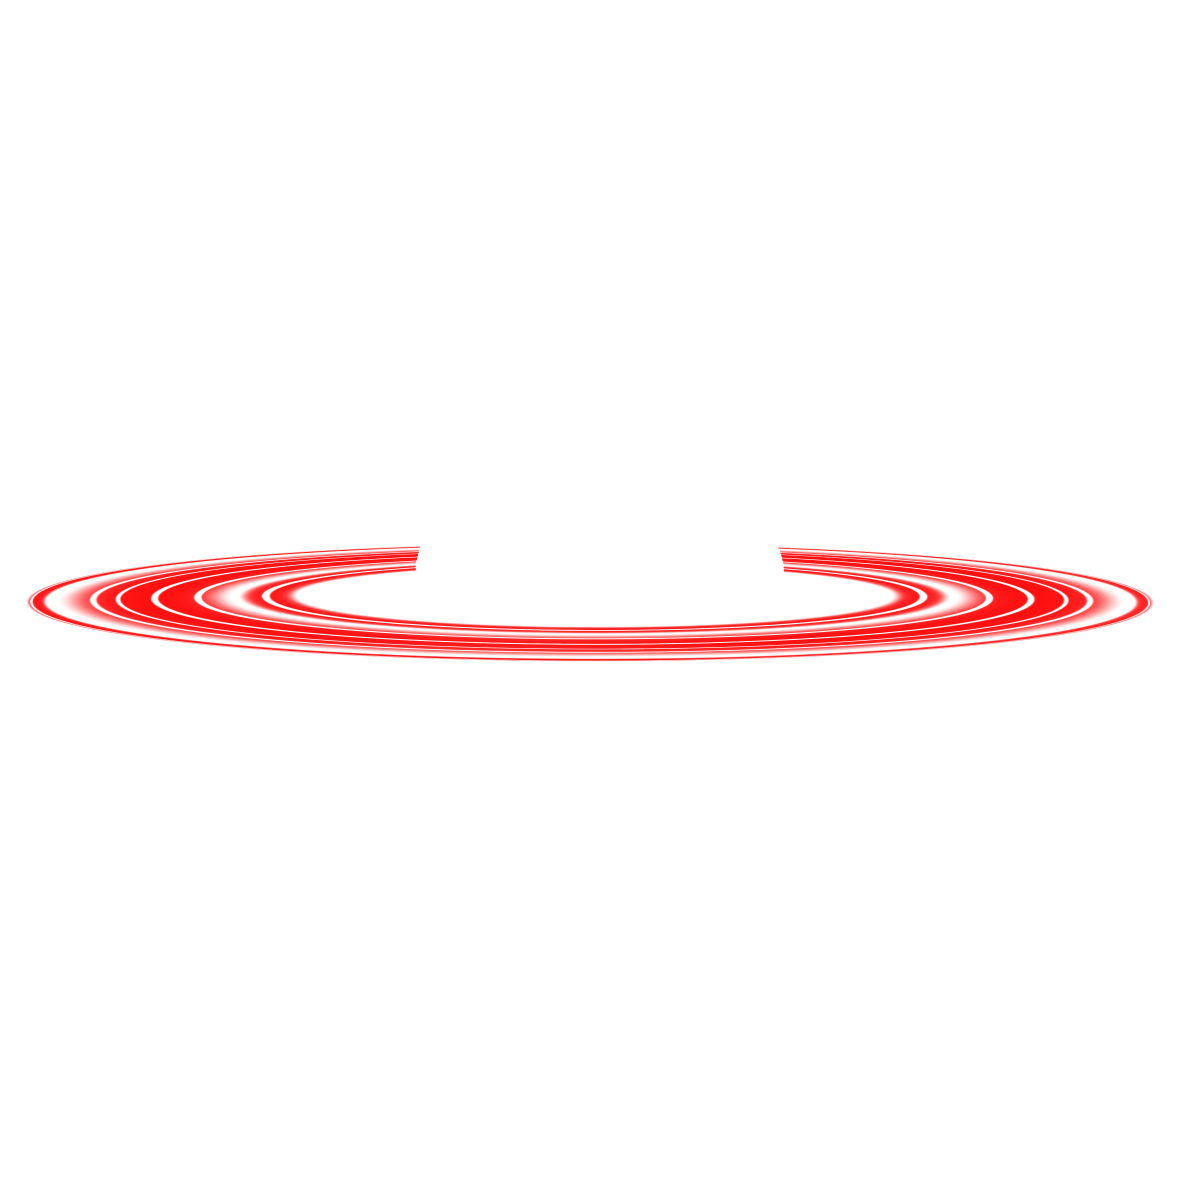
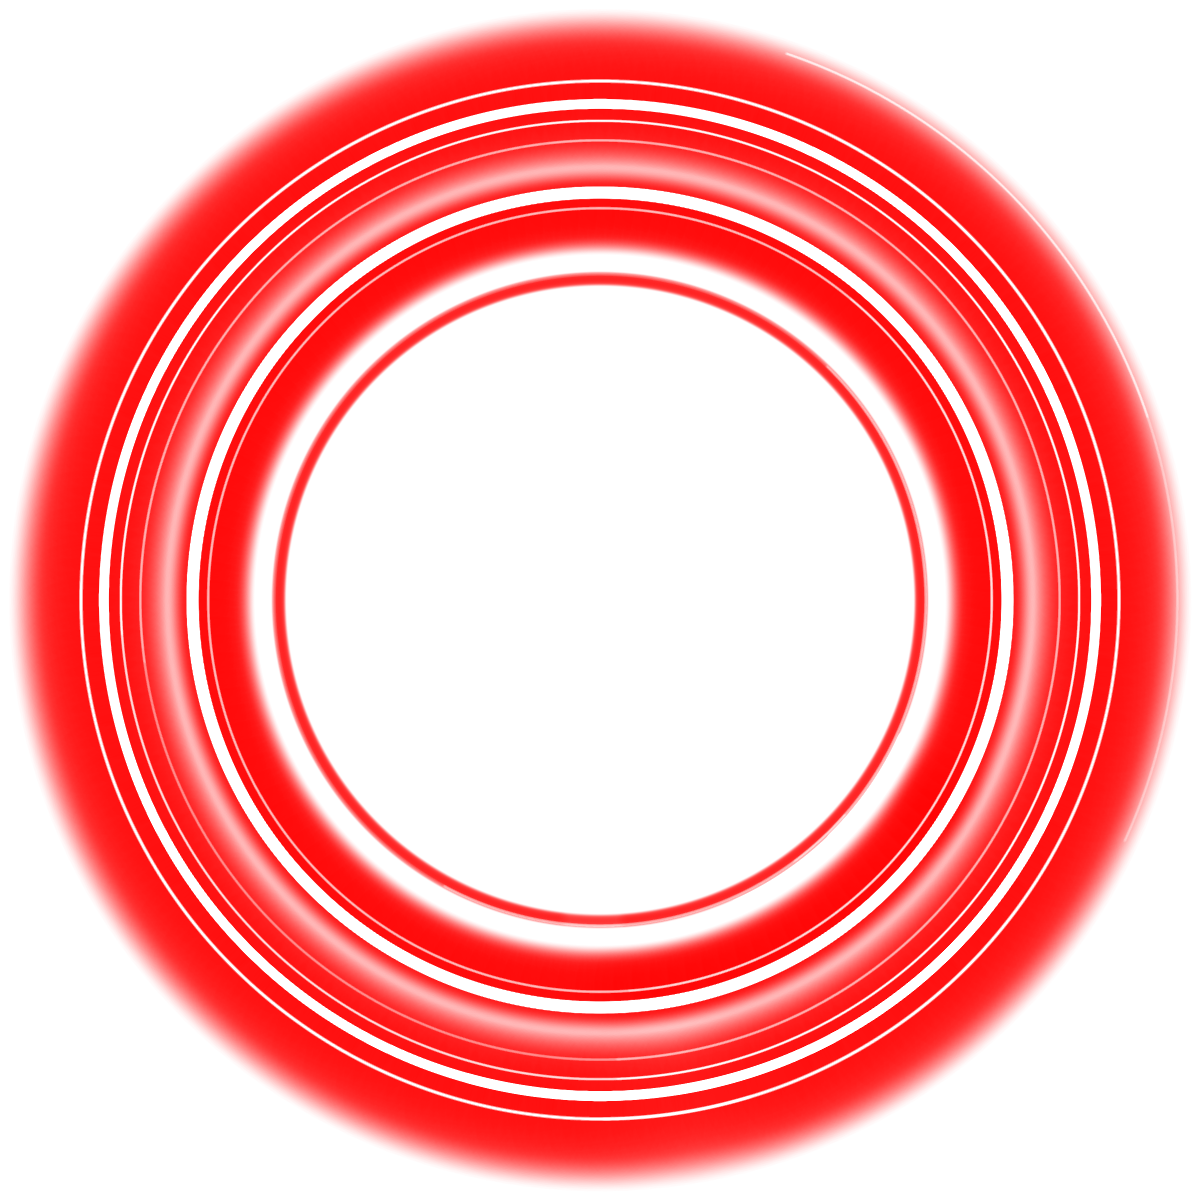
3D ring
Replace image of ring and rewrite the display of ring so that ring becomes 3D ring.

diff --git a/generator.js b/generator.js
@@ -21,12 +21,12 @@ function generate(planetData) {
     ["--planetDetailRotate", planetData.detail.rotate],
     ["--planetRingOpacity", planetData.ring.opacity],
     ["--planetRingRotate", planetData.ring.rotate],
+    ["--planetRingRotateX", planetData.ring.rotateX],
     ["--planetRingColor", planetData.ring.color],
   ];
   table.forEach((item) => {
     planetStyle.setProperty(...item);
   });
-
   console.log(planetData);
 }
 function randomGenerate() {
@@ -46,6 +46,7 @@ function randomGenerate() {
     ring: {
       opacity: randomInRange(0, 1), //Generally,a ring has "Exist" or "Not Exist" two situations.To achieve this,we can use "opacity" to simulate("Exist" is 1, "Not Exist" is 0) this situation and it can be good for transition animation.
       rotate: `${randomInRange(0, 360)}deg`,
+      rotateX: `${randomInRange(60,89)}deg`,
       color: `${randomInRange(40, 250)}deg`,
     },
   };
@@ -60,7 +61,7 @@ function randomGenerate() {
       planetData.detail.opacity = 0;
       planetData.cloud = {
         rotate: `${randomInRange(-10, 10)}deg`,
-        opacity: Math.random() * 0.4 + 0.6,//the opacity belongs to [0.6,1)
+        opacity: Math.random() * 0.4 + 0.6, //the opacity belongs to [0.6,1)
       };
       break;
   }

diff --git a/planet.css b/planet.css
@@ -12,6 +12,7 @@
   --planetDetailRotate: 225deg;
   --planetRingOpacity: 1;
   --planetRingRotate: -10deg;
+  --planetRingRotateX: 80deg;
   --planetRingColor: 190deg;
 }
 #planet{
@@ -54,12 +55,20 @@
   opacity: var(--planetDetailOpacity);
   transform: translate(-50%, -50%) rotate(var(--planetDetailRotate));
 }
-#ring {
+#planet>.ring {
   z-index: 25;
-  width: calc(var(--planetRadius) * 3.2);
-  transform: translate(-50%, -50%) rotate(var(--planetRingRotate));
+  width: calc(var(--planetRadius) * 3);
+  height: calc(var(--planetRadius) * 3);
+  transform: translate(-50%, -50%) rotate(var(--planetRingRotate)) rotateX(var(--planetRingRotateX)) ;
   opacity: var(--planetRingOpacity);
   filter: brightness(1) grayscale(0.1) hue-rotate(var(--planetRingColor)) saturate(0.2);
   color: #577f87;
 }
-
+#planet>#ringBehind{
+  z-index: -1;
+  clip-path:inset(0% 0% 50% 0%) ;
+}
+#planet>#ringFront{
+  clip-path: inset(50% 0% 0% 0%);
+}
+/* 实现前后遮挡效果 */

diff --git a/index.html b/index.html
@@ -44,7 +44,8 @@
       <div id="result">
         <div id="planet">
           <div id="shadow"></div>
-          <img id="ring" src="image/ring1.png" />
+          <img class="ring" id="ringFront" src="image/ring0.png" />
+          <img class="ring" id="ringBehind" src="image/ring0.png" />
           <img id="cloud" src="image/cloud1.png" alt="" />
           <img id="detail" src="image/detail0.png" alt="" />
           <div id="base"></div>
@@ -55,8 +56,6 @@
         <button onclick="randomGenerate()">随机生成</button>
       </div>
       <script src="generator.js"></script>
-      <script>
-      </script>
     </div>
   </body>
 </html>
